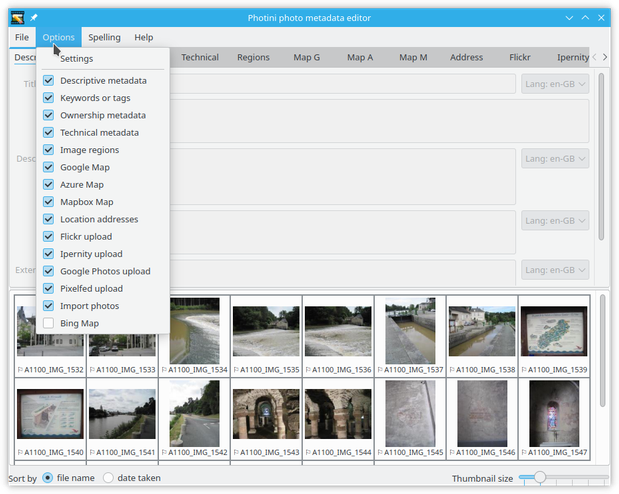
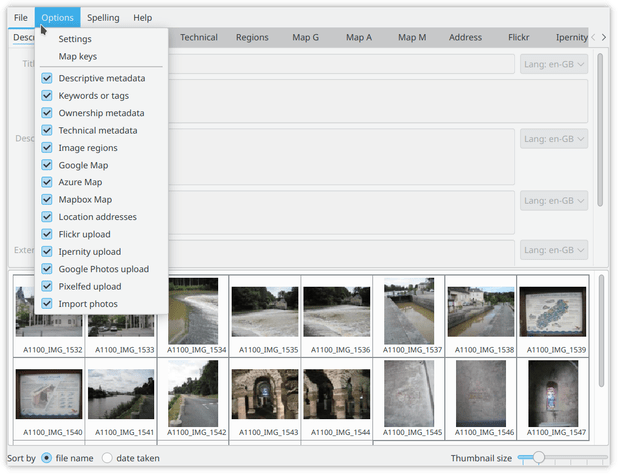
Documentation of creating "personal" API keys

diff --git a/src/doc/other/api_keys.rst b/src/doc/other/api_keys.rst
@@ -1,0 +1,78 @@
+.. This is part of the Photini documentation.
+   Copyright (C)  2025  Jim Easterbrook.
+   See the file ../DOC_LICENSE.txt for copying conditions.
+
+Map API keys
+============
+
+Photini's maps and address lookup tabs all rely on commercial online services.
+Access to these services is controlled via "API keys".
+The map services are all free of charge, up to a certain level of usage, while the address lookup (geolocation) service has a small charge per lookup.
+
+By default Photini uses API keys provided by its developer, Jim Easterbrook.
+This works well enough at present, but these keys could be disabled at any time.
+For example:
+
+* If usage increases sufficiently to cross the "free use" threshold then the relevant key will be disabled.
+* If Jim's credit card expires or is cancelled then the relevant keys may become disabled.
+
+Photini users are encouraged to obtain their own "personal" API keys (for the services they use) to reduce reliance on the default keys.
+(There is nothing to stop you sharing your "personal" keys with trusted family and friends, if they also use Photini.)
+Photini's API keys can be set via its :ref:`configuration<configuration-api-keys>` menu.
+
+.. tabs::
+
+    .. tab:: Azure Maps
+
+        Please see the `Azure Maps quickstart`_ page that guides you through the process of setting up an Azure account and getting a map API key.
+        When you create an Azure account I suggest choosing a "pay as you go" account to avoid any difficulty changing account type later on.
+
+        When you create an "Azure Maps Account resource" select the only "Subscription" and "Resource Group" you have, invent a suitable name, choose the "Region" closest to where you live, tick the "I confirm that I have read..." box and click ``Review + create`` followed by ``Create``.
+
+        After clicking ``Go to resource`` the ``Settings -> Authentication`` menu shows a "Primary Key" and a "Secondary Key".
+        Either of these can be copied to Photini's configuration dialog.
+
+    .. tab:: Google Maps
+
+        Please see `Getting started with Google Maps Platform`_ for details of how to set up a Google Maps account.
+        Create a project, then enable these APIs:
+
+        * Maps JavaScript API
+        * Geocoding API
+        * Maps Elevation API
+
+        Now go to the ``Credentials`` page and click ``Create credentials -> API key`` to generate a new API key.
+        Give it a name, if you like, then select ``Application restrictions -> None``, ``API restrictions -> Restrict key``, ``Select APIs -> Geocoding, Maps Elevation, Maps JavaScript``, then click on ``Create``.
+
+        If all goes well you should now be shown an API key that you can copy and paste to Photini's configuration dialog.
+
+        Even with these restrictions, Google may still occasionally send you emails warning of dire consequences if you don't restrict your API keys.
+        They really want you to limit usage to a fixed IP address, but that's not useful if you use Photini from more than one location.
+
+    .. tab:: Mapbox Maps
+
+        Mapbox is delightfully to simple to set up, compared to Google and Azure.
+        First go to `Create your account`_, fill in the form and click on ``Continue``.
+
+        On your "Account overview" page click on ``View all tokens``, then ``Create a token``.
+        Choose a name, deselect all "scopes" except ``Styles:tiles``, ``Styles:read``, and ``Fonts:read``, then click ``Create token``.
+        This should take you to the "Access tokens" page, from where you can copy the new token to Photini's configuration dialog.
+
+    .. tab:: OpenCage Geocoding
+
+        First create an account via the `OpenCage Create account`_ page.
+        You need to give an organisation or company name; I suggest "Personal" or similar.
+        On the next page select "Reverse geocoding" as the primary use case, and enter "Python" in the software box, then click ``Continue``.
+
+        On the "Your Dashboard" page select "Geocoding API" and copy the key to Photini's configuration dialog.
+        After verifying that your key works, you should click ``Purchase a plan``, then choose ``One-time purchase`` and buy the "small one-time" option.
+        This buys 10,000 address lookups, which should cover many years of use with Photini.
+
+.. _Azure Maps quickstart:
+    https://learn.microsoft.com/en-us/azure/azure-maps/quick-demo-map-app
+.. _Create your account:
+    https://account.mapbox.com/auth/signup/
+.. _Getting started with Google Maps Platform:
+    https://developers.google.com/maps/get-started
+.. _OpenCage Create account:
+    https://opencagedata.com/users/sign_up

diff --git a/src/doc/manual/configuration.rst b/src/doc/manual/configuration.rst
@@ -53,6 +53,25 @@ Clicking on one of the "map icon colours" fields opens a colour chooser dialog t
 Lastly, if you have more than one Qt package installed then you can choose which one to use.
 If you change the Qt package Photini informs you that it needs to be restarted to use the new package.
 
+.. _configuration-api-keys:
+
+Map API keys
+^^^^^^^^^^^^
+
+.. image:: ../images/screenshot_087.png
+
+If you have `Python keyring`_ installed then the ``Options`` menu has a ``Map keys`` item which opens the dialog shown above.
+This shows your current "personal" API keys for the map and geolocation (address lookup) services.
+Photini's default API keys are not shown.
+
+.. image:: ../images/screenshot_088.png
+
+If you obtain your own API key from any of the service providers then you can copy it into the appropriate text box and then click the ``Apply`` button.
+Your API key will be securely stored and used to access the service.
+(Don't bother copying the key shown in the screenshot -- it's disabled.)
+
+To learn more about why you might want to do this, see the :doc:`../other/api_keys` section.
+
 .. _configuration-spell:
 
 Spell checking
@@ -242,3 +261,5 @@ See :doc:`extending` for more information.
 .. _LibreOffice dictionaries:
     https://cgit.freedesktop.org/libreoffice/dictionaries/tree/
 .. _Metadata Working Group: https://en.wikipedia.org/wiki/Metadata_Working_Group
+.. _Python keyring:
+    https://keyring.readthedocs.io/

diff --git a/src/doc/index.rst b/src/doc/index.rst
@@ -1,5 +1,5 @@
 .. This is part of the Photini documentation.
-   Copyright (C)  2012-23  Jim Easterbrook.
+   Copyright (C)  2012-25  Jim Easterbrook.
    See the file DOC_LICENSE.txt for copying conditions.
 
 Photini documentation
@@ -15,12 +15,13 @@ More detail about its capabilities can be found in :doc:`the user manual <manual
    other/introduction
    other/installation
    manual/index
+   other/api_keys
    other/workflow
    other/localisation
    misc/index
    other/reading
 
-Copyright (C)  2012-23  Jim Easterbrook.
+Copyright (C)  2012-25  Jim Easterbrook.
 
 Permission is granted to copy, distribute and/or modify this document under the terms of the GNU Free Documentation License, Version 1.3 or any later version published by the Free Software Foundation; with no Invariant Sections, no Front-Cover Texts, and no Back-Cover Texts.
 A copy of the license is included in the section entitled "GNU Free Documentation License".
